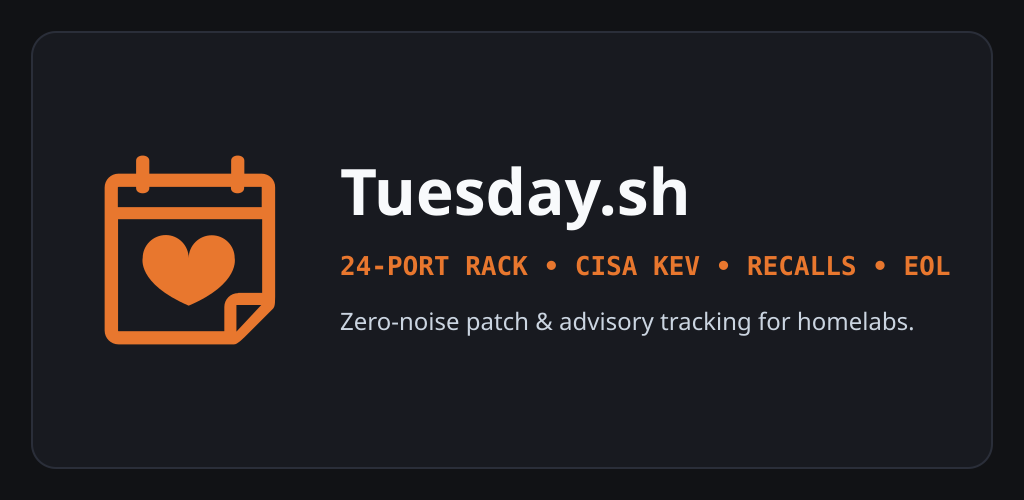
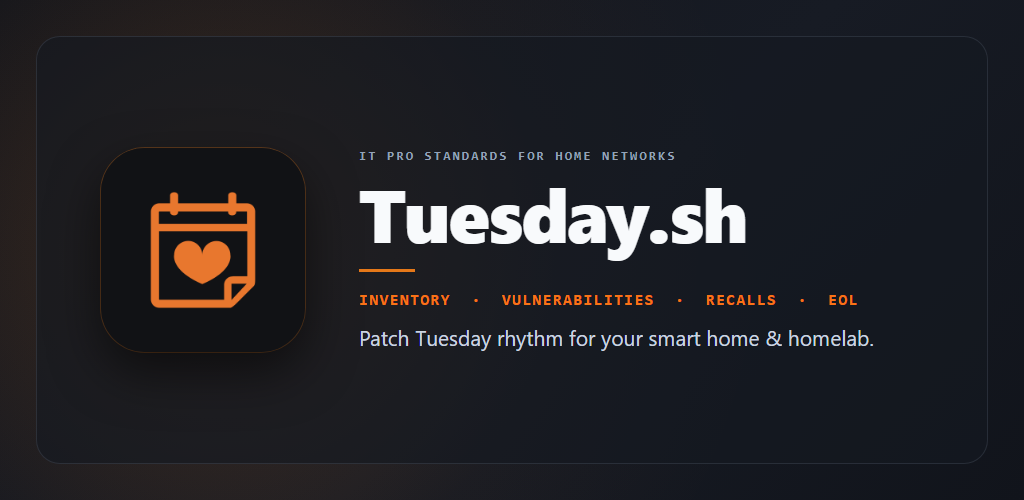
docs(store): update Play Store listing copy and editorial 1024x500 feature graphic [skip ci]
AI-Origin: antigravity
AI-Agent: Agy (agy)
AI-Model: gemini-4-argon

diff --git a/store-metadata/play-store-listing-en-US.md b/store-metadata/play-store-listing-en-US.md
@@ -1,0 +1,30 @@
+# Google Play Store Listing — Tuesday.sh (v1.0.1 / Build 17)
+
+## Short Description (76 / 80 chars)
+```text
+Build your inventory, bring Patch Tuesday rhythm to your smart home network.
+```
+
+## Full Description (~2,150 / 4,000 chars)
+```text
+Tuesday.sh is built on real IT Pro standards and best practices tuned for home networks. Track every network device for vulnerability notices, recalls, and zero-day exploits. A calm, rapid-triage tool and Patch Tuesday readiness companion for everyday networks and homelab builders.
+
+Build an accurate inventory of the gear plugged into your home—from Wi-Fi routers and mesh access points to NAS boxes, cameras, smart TVs, and printers—and check them on a calm monthly cadence.
+
+KEY FEATURES
+• Private, Local-First Inventory: Your device list, custom names, room locations, and check-in history stay right on your Android device in portable plain-text JSON files. Export or import backups anytime—no account or cloud login required.
+• Fast Offline Hardware Lookup: Search thousands of home and homelab devices by brand, model, retail UPC barcode, MAC address prefix, or FCC ID right on your phone.
+• Live Barcode, QR & Photo Discovery: Scan UPC barcodes, MAC address stickers, or QR codes with your camera, or snap a photo of a tricky chassis label. Photos are processed in memory and immediately discarded—we never store your pictures.
+• Action-First Advisories & End-of-Life Guard: Matches CISA KEV notices (the U.S. government's Known Exploited Vulnerabilities list—bugs actively targeted in the wild), physical safety recalls, vendor End-of-Life (EOL—when a manufacturer stops shipping security updates), and firmware releases directly to your gear.
+• Hardware Lifespan Timeline: See vendor support windows at a glance, spot aging gear that's past its support cutoff, and log quick seasonal check-ins.
+• Calm Check-Up Rhythm & Report Exports: Stay on top of new gear, monthly Patch Tuesday reviews, quarterly safety checks, and annual hardware audits without noisy alerts.
+
+TUESDAY.SH PRO (OPTIONAL FOUNDING MEMBER SUBSCRIPTION)
+• Free includes 1 primary network (up to 15 devices), 15 AI photo scans, all security/recall/EOL advisories, and local JSON backup.
+• Upgrade to Tuesday.sh Pro ($2.99/month or $29.00/year, Save 19%) for up to 128 devices per network, unlimited physical locations, unlimited AI photo scans, printable PDF/CSV/Markdown reports, multi-year EOL forecasts, and full-network update checklists.
+• Payment is charged to your Google Play account at confirmation of purchase. Subscriptions automatically renew unless canceled before the end of the current billing period. Manage or cancel anytime in Google Play > Payments & subscriptions > Subscriptions.
+
+Privacy Policy: https://tuesday.sh/privacy
+Terms of Use: https://tuesday.sh/terms
+Support: https://tuesday.sh/support
+```
